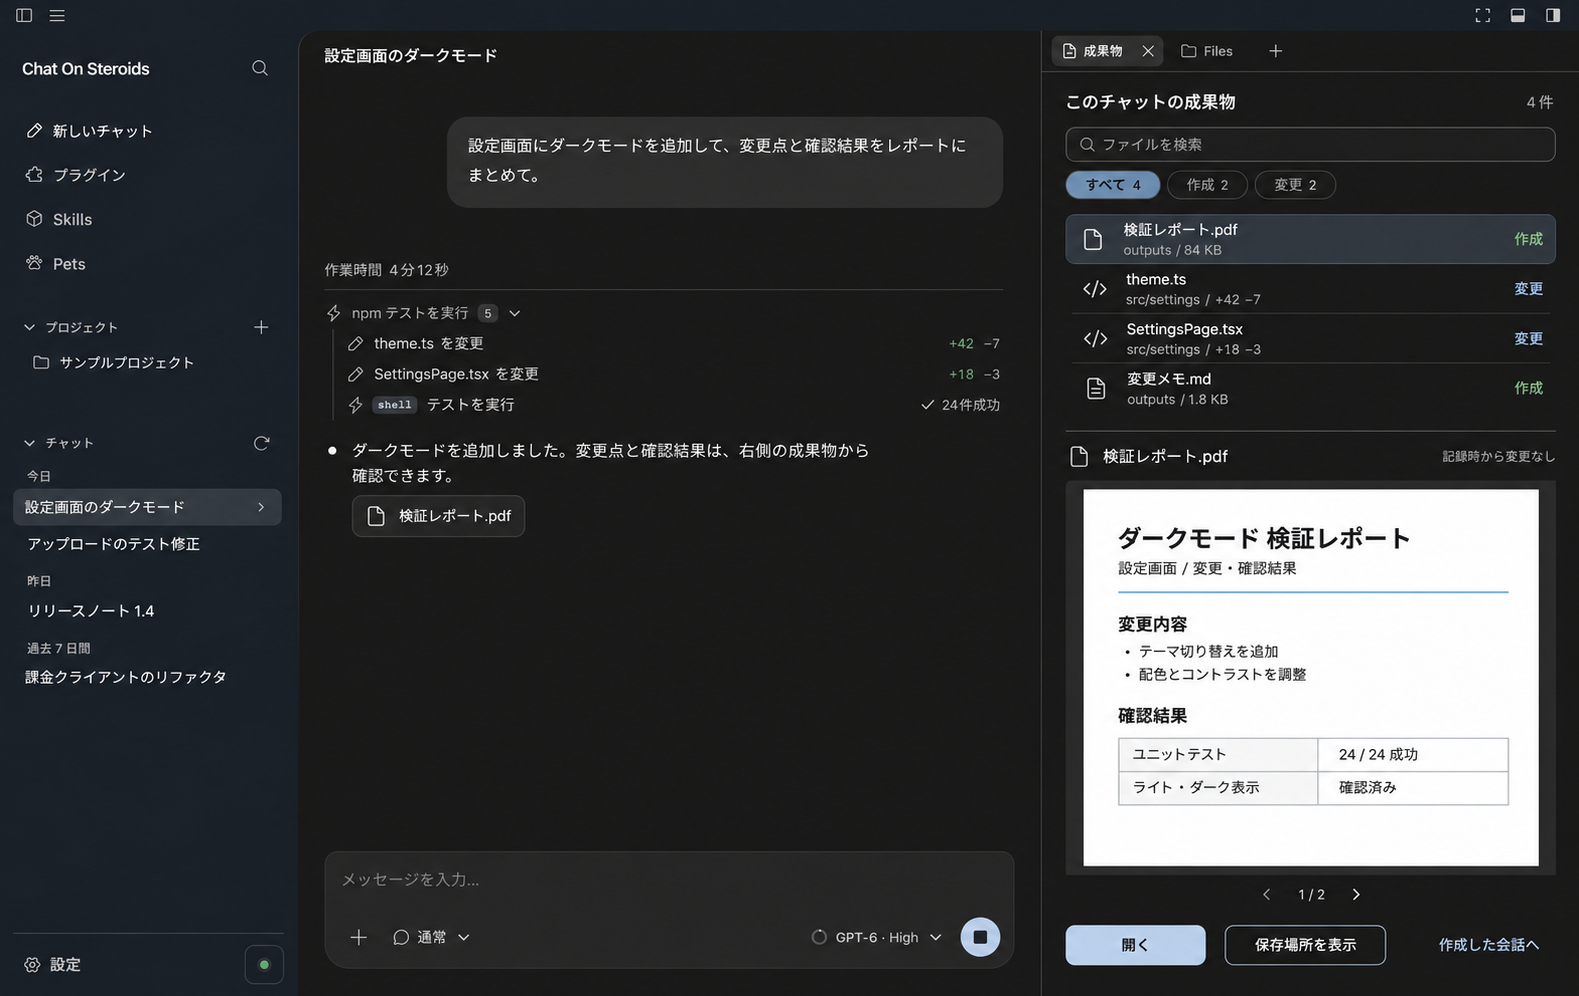
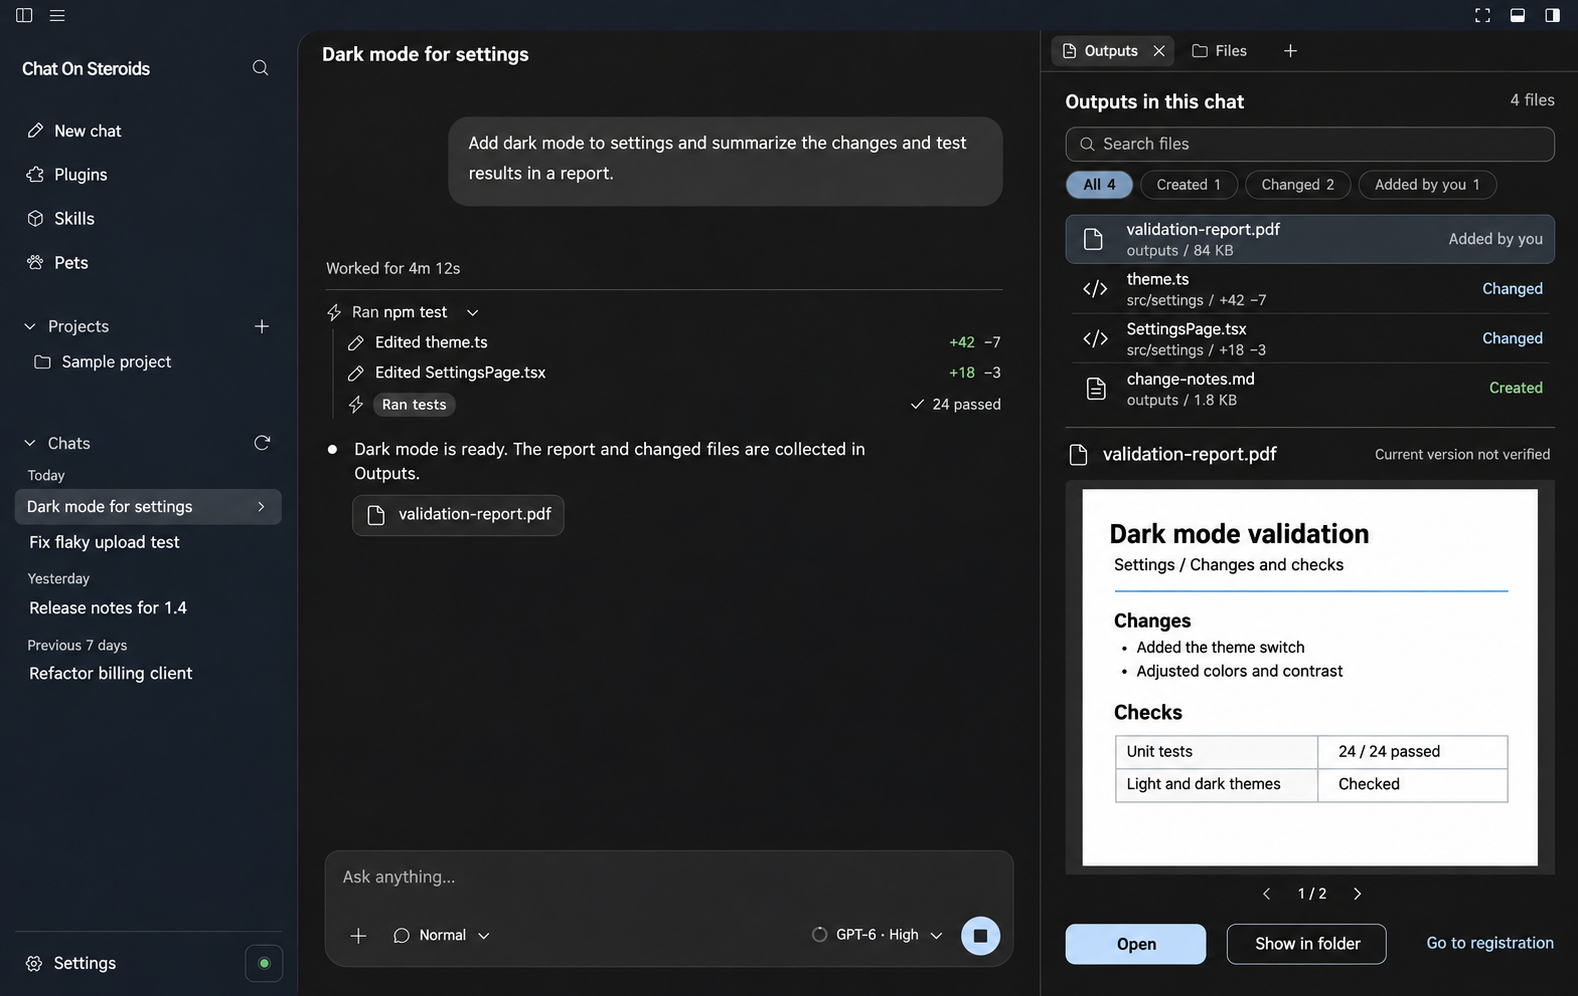
docs: use English UI in the Outputs proposal mockup

diff --git a/docs/proposals/chat-outputs.md b/docs/proposals/chat-outputs.md
@@ -15,10 +15,10 @@ either view or making a second file manager.
 This is a generated UI concept using synthetic content and the existing app screenshot as
 its visual reference. It is not a running implementation or evidence of working tests.
 The filenames, file sizes, change counts and test results are illustrative. The interface
-is shown in Japanese; an implementation would use the app's normal localization system.
+is shown in English; an implementation would use the app's normal localization system.
 
 The right dock keeps the conversation visible. Its upper section lists files associated
-with this chat, with search and Created/Changed filters. Selecting a row opens its details
+with this chat, with search and Created/Changed/Added by you filters. Selecting a row opens its details
 below: a supported file preview or the recorded edit, plus **Open**, **Show in folder** and
 **Go to source activity**. The last action returns to the exact recorded tool call; a
 manually added reference returns to its registration point instead.
@@ -34,8 +34,8 @@ manually added reference returns to its registration point instead.
   shell command or external app that has no structured file-change receipt. Mark that row
   as **Added by you**, not proof that the chat created it. This is the proposed way to
   include the sample PDF; its existence cannot be inferred just from an assistant claim.
-- Group repeated recorded changes to the same session/project-relative path into one row with access to
-  its source activities. A manual reference can join that row without becoming a recorded
+- Group repeated recorded changes to the same session/project-relative path into one row
+  with access to its source activities. A manual reference can join that row without becoming a recorded
   creation. Recorded deletion stays distinguishable from a file currently missing on disk.
 - Reuse the existing bounded text/image/PDF preview and immutable recorded-diff readers
   where applicable. A recorded diff describes that edit, not today's whole filesystem
